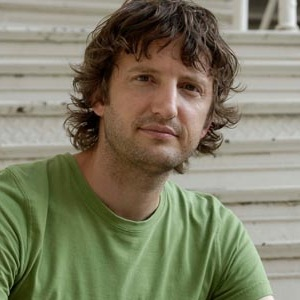
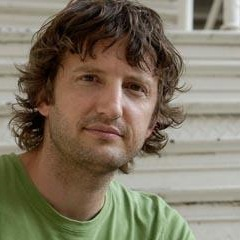
xxxx

diff --git a/assets/js/collaborators-reveal.js b/assets/js/collaborators-reveal.js
@@ -3,6 +3,8 @@
   if (!grid || !('IntersectionObserver' in window)) return;
   const motion = window.matchMedia('(prefers-reduced-motion: reduce)');
   if (motion.matches) return;
+  const sessionKey = 'collaborators-seen';
+  try { if (sessionStorage.getItem(sessionKey) === 'true') return; } catch (_) { /* Storage may be unavailable. */ }
   const people = [...grid.querySelectorAll('.collaborator')];
   let observer;
   let next = 0;
@@ -39,6 +41,7 @@
       person.classList.add('person-reveal', 'person-pending');
       observer.observe(person);
     });
+    try { sessionStorage.setItem(sessionKey, 'true'); } catch (_) { /* Animation still works without storage. */ }
     grid.addEventListener('focusin', event => {
       const person = event.target.closest('.collaborator');
       const index = people.indexOf(person);
